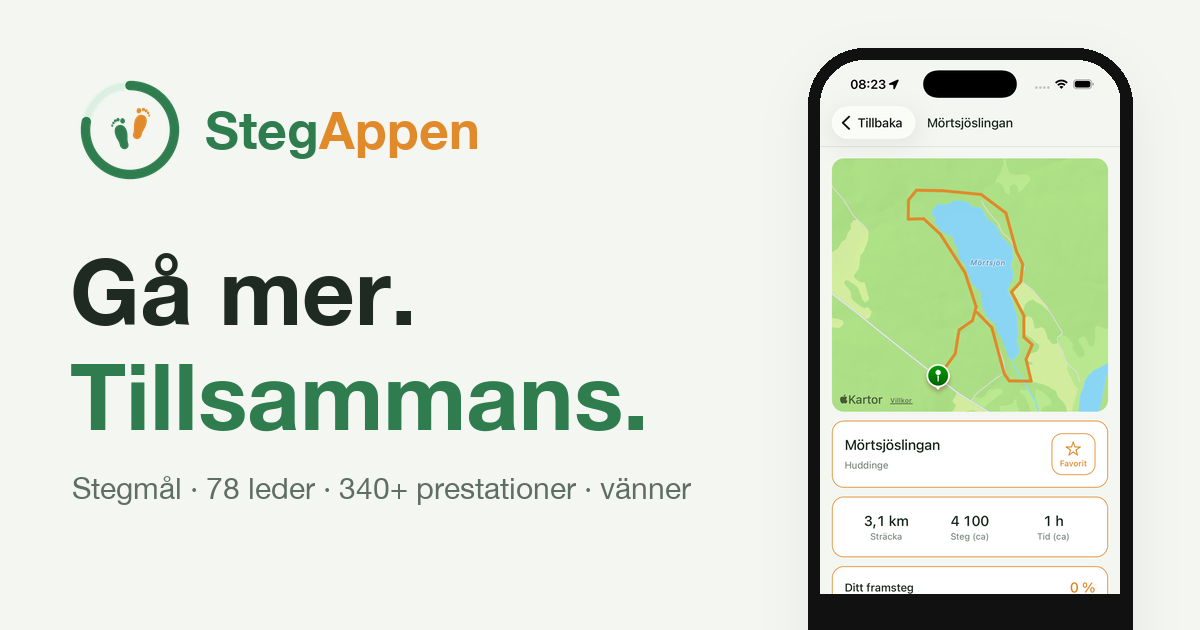
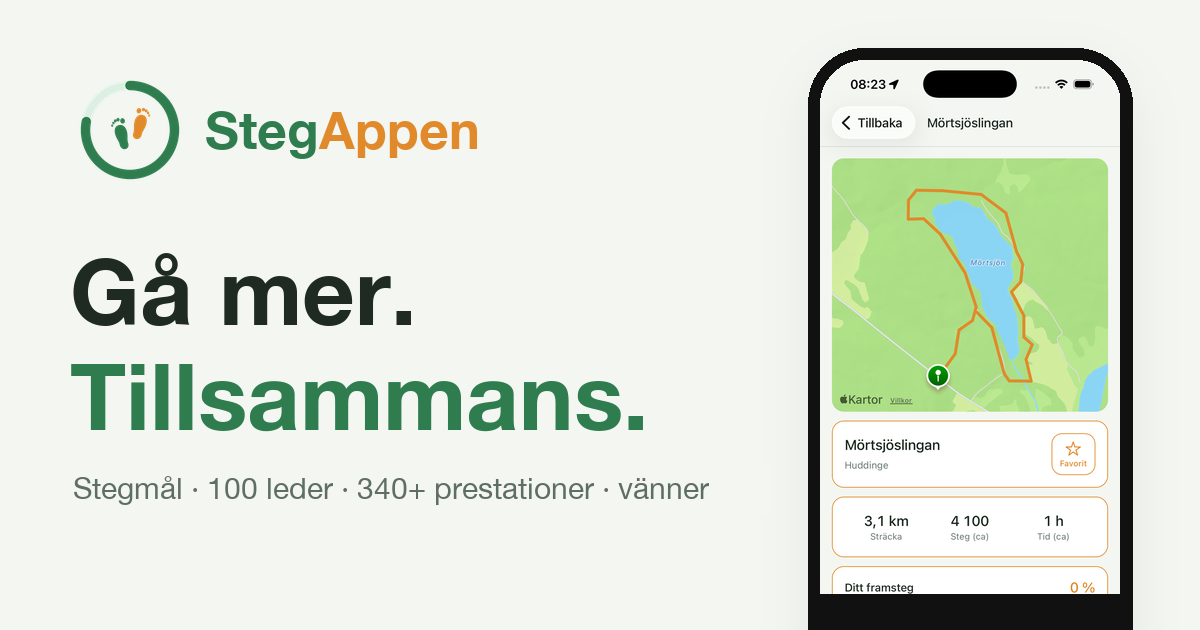
100 inbyggda leder i stället för 78

Changed region(s): [[0.0617, 0.754, 0.5858, 0.8143]]

diff --git a/index.html b/index.html
@@ -4,7 +4,7 @@
 <meta charset="utf-8">
 <meta name="viewport" content="width=device-width, initial-scale=1">
 <title>StegAppen – stegräknare och vandringsapp för iPhone</title>
-<meta name="description" content="StegAppen gör varje steg roligare: stegmål som växer med dig, 78 vandringsleder, över 340 prestationer och topplista med vänner. Hämtar steg från Hälsa-appen och Apple Watch. Testa gratis på iPhone.">
+<meta name="description" content="StegAppen gör varje steg roligare: stegmål som växer med dig, 100 vandringsleder, över 340 prestationer och topplista med vänner. Hämtar steg från Hälsa-appen och Apple Watch. Testa gratis på iPhone.">
 <meta name="keywords" content="stegräknare, stegapp, steg, promenad, vandring, vandringsleder, Apple Hälsa, Apple Watch, prestationer, topplista, stegmål, iPhone">
 <meta name="theme-color" content="#2F7D4F">
 <meta name="color-scheme" content="light only">
@@ -180,7 +180,7 @@
   "name": "StegAppen",
   "url": "https://stegappen.se/",
   "image": "https://stegappen.se/img/og.png",
-  "description": "Stegräknare och vandringsapp för iPhone: stegmål som växer med dig, 78 vandringsleder, över 340 prestationer och topplista med vänner. Hämtar steg från Hälsa-appen och Apple Watch.",
+  "description": "Stegräknare och vandringsapp för iPhone: stegmål som växer med dig, 100 vandringsleder, över 340 prestationer och topplista med vänner. Hämtar steg från Hälsa-appen och Apple Watch.",
   "operatingSystem": "iOS",
   "applicationCategory": "HealthApplication",
   "inLanguage": "sv",
@@ -242,7 +242,7 @@
     "name": "Vilka vandringsleder finns i appen?",
     "acceptedAnswer": {
      "@type": "Answer",
-     "text": "78 leder runt om i Sverige, till exempel Kungsleden, Sörmlandsleden, Bohusleden, Upplandsleden och Ostkustleden – från korta sjörundor till långa etapper. Du kan också spela in egna turer."
+     "text": "100 leder runt om i Sverige, till exempel Kungsleden, Sörmlandsleden, Bohusleden, Upplandsleden och Ostkustleden – från korta sjörundor till långa etapper. Du kan också spela in egna turer."
     }
    },
    {
@@ -301,7 +301,7 @@
         </div>
         <div class="proof">
           <div><b>340+</b>prestationer</div>
-          <div><b>78</b>vandringsleder</div>
+          <div><b>100</b>vandringsleder</div>
           <div><b>0 kr</b>under testet</div>
         </div>
       </div>
@@ -400,14 +400,14 @@
           <h3>Hitta nästa vandring</h3>
           <p>Välj en led på kartan eller starta en egen tur. Appen visar sträcka, tid och höjdmeter – och bockar av leden när du gått den.</p>
           <ul>
-            <li>78 leder i hela landet, från korta sjörundor till långa etapper</li>
+            <li>100 leder i hela landet, från korta sjörundor till långa etapper</li>
             <li>Bjud in vänner till dagsturer eller resor med övernattning</li>
             <li>Gemensamma packlistor och vem som tar med vad</li>
           </ul>
         </div>
         <div class="shot mock" role="img" aria-label="Listan med vandringsleder i StegAppen">
           <div class="m-status"><b>9:41</b><span>●●● ▲ ▮</span></div>
-          <div class="m-top"><span class="m-title">Vandringar</span><span class="m-pill">78 leder</span></div>
+          <div class="m-top"><span class="m-title">Vandringar</span><span class="m-pill">100 leder</span></div>
           <div class="trails card">
             <div class="trails-head">🗺 Några av lederna</div>
             <div class="trail"><span>Kungsleden: Abisko – Abiskojaure</span><small>Lappland</small></div>
@@ -417,7 +417,7 @@
             <div class="trail"><span>Upplandsleden etapp 2</span><small>Stockholm</small></div>
             <div class="trail"><span>Ostkustleden: Lönnhult – Krokstorp</span><small>Småland</small></div>
             <div class="trail"><span>Trehörningen runt</span><small>Huddinge</small></div>
-            <div class="trails-more">+ 71 till</div>
+            <div class="trails-more">+ 93 till</div>
           </div>
           <div class="m-tabs" aria-hidden="true"><span>👣<i>Idag</i></span><span>🥾<i>Vandra</i></span><span class="on">🗺<i>Vandringar</i></span><span>🏆<i>Prestationer</i></span><span>📊<i>Statistik</i></span></div>
         </div>
@@ -470,7 +470,7 @@
       </div>
       <div class="grid">
         <div class="card"><div class="ic">📈</div><h3>Stegmål som växer med dig</h3><p>Börja på 5 000 steg om dagen. Varje måndag höjs målet med 1 000 tills du når 10 000 – i lagom takt.</p></div>
-        <div class="card o"><div class="ic">🥾</div><h3>Vandringar och leder</h3><p>Spela in dina turer med karta, höjdmeter och tid. 78 leder att gå – från Sörmlandsleden till sjön runt hörnet.</p></div>
+        <div class="card o"><div class="ic">🥾</div><h3>Vandringar och leder</h3><p>Spela in dina turer med karta, höjdmeter och tid. 100 leder att gå – från Sörmlandsleden till sjön runt hörnet.</p></div>
         <div class="card"><div class="ic">🏆</div><h3>Hundratals prestationer</h3><p>Städer, nöjesparker, fotbollsarenor, vandringsleder, streaks och mycket mer. Det finns alltid något nytt att jaga.</p></div>
         <div class="card o"><div class="ic">👥</div><h3>Vänner och topplista</h3><p>Lägg till vänner med en länk, se veckans topplista och jämför era prestationer. Lite tävling gör underverk.</p></div>
         <div class="card"><div class="ic">📅</div><h3>Bjud in till vandring</h3><p>Planera en dagstur eller en helg i fjällen. Skicka inbjudan via sms – vännerna svarar Kommer, Kanske eller Kommer inte.</p></div>
@@ -530,7 +530,7 @@
         </details>
         <details>
           <summary>Vilka vandringsleder finns i appen?</summary>
-          <p>78 leder runt om i Sverige, till exempel Kungsleden, Sörmlandsleden, Bohusleden, Upplandsleden och Ostkustleden – från korta sjörundor till långa etapper. Du kan också spela in egna turer.</p>
+          <p>100 leder runt om i Sverige, till exempel Kungsleden, Sörmlandsleden, Bohusleden, Upplandsleden och Ostkustleden – från korta sjörundor till långa etapper. Du kan också spela in egna turer.</p>
         </details>
         <details>
           <summary>Finns StegAppen för Android?</summary>
